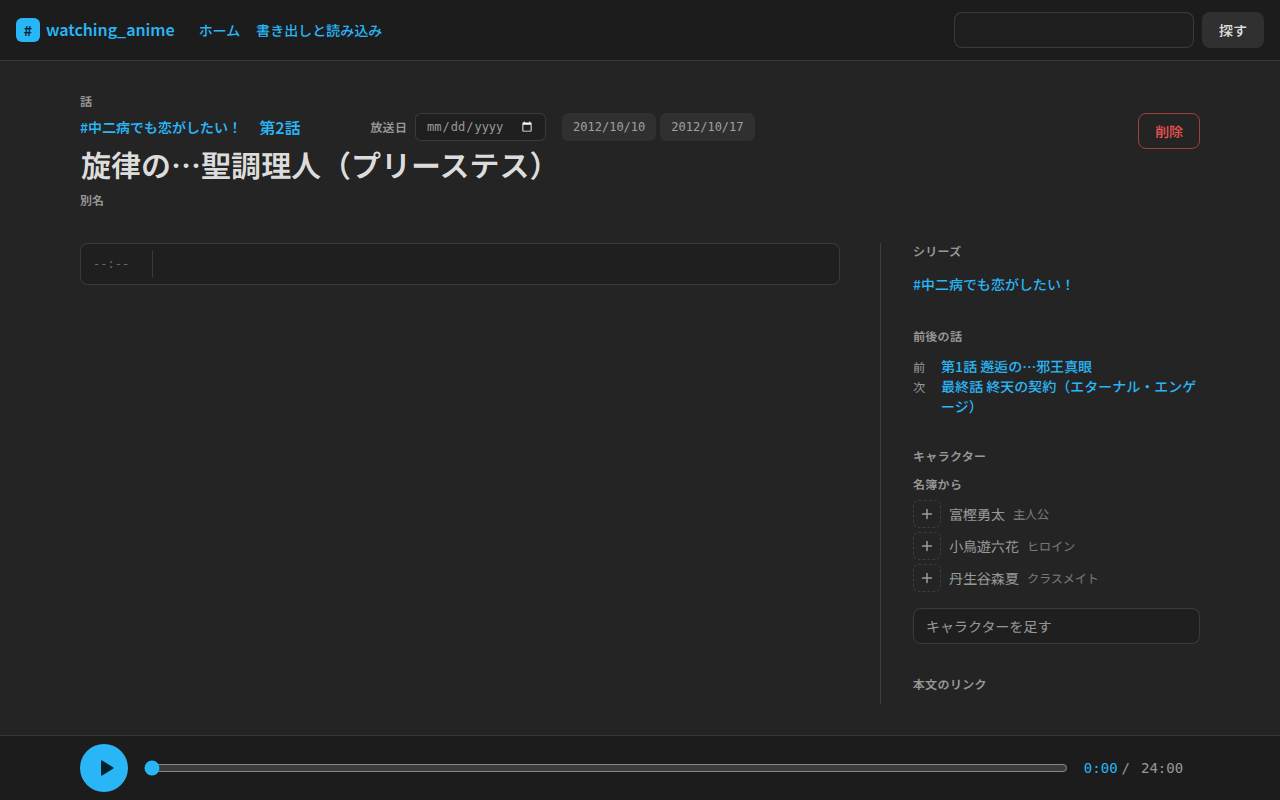
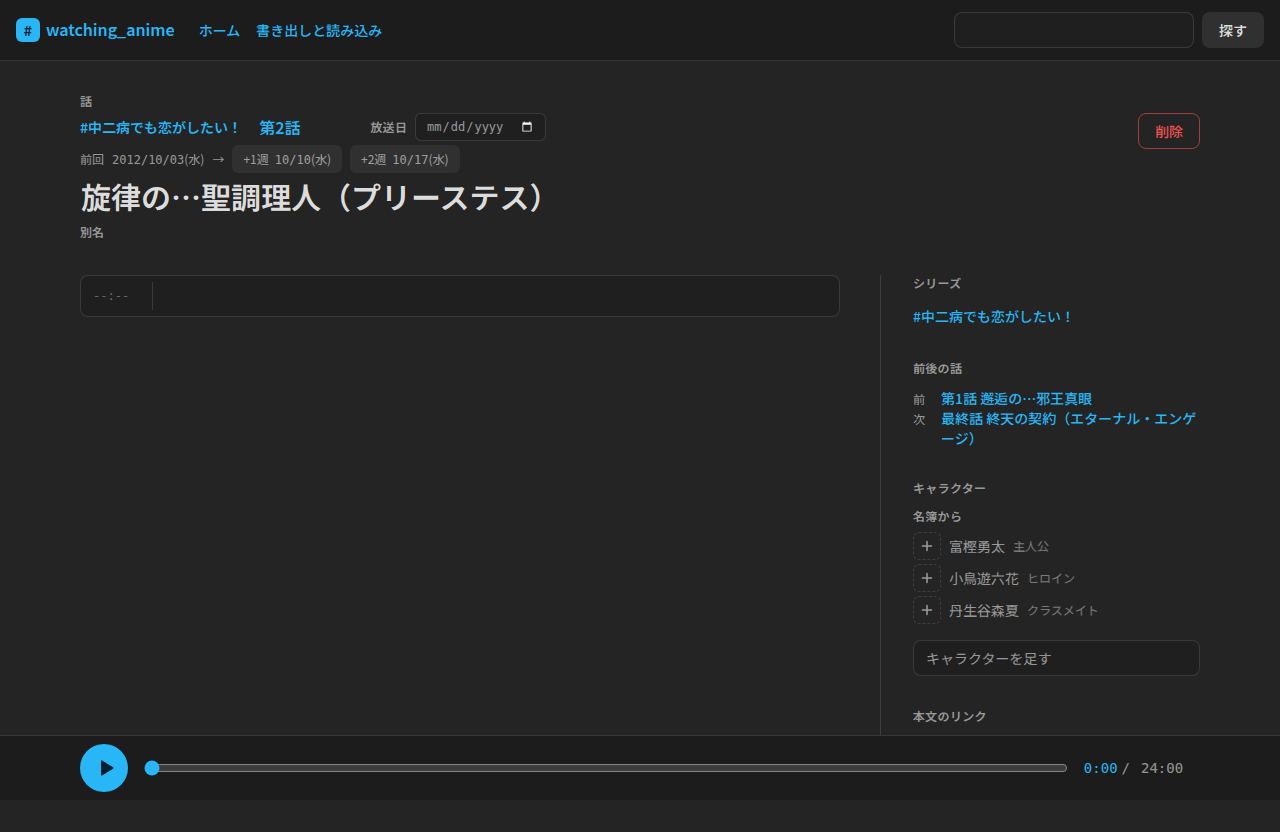
放送日の候補に前回の日付を出し、ボタンを +1週・+2週と月日にする

diff --git a/src/app/pages/EpisodePage.tsx b/src/app/pages/EpisodePage.tsx
@@ -27,7 +27,7 @@ import {
 import { PageSuggest } from "../components/PageSuggest.tsx";
 import { PlaybackBar } from "../components/PlaybackBar.tsx";
 import { TitleFields } from "../components/TitleFields.tsx";
-import { pageName, paths, seriesName } from "../paths.ts";
+import { dateLabel, pageName, paths, seriesName, weekdayOf } from "../paths.ts";
 import { currentTime } from "../playback.ts";
 import { useDatabase, useStore } from "../store.ts";
 
@@ -87,21 +87,14 @@ function EpisodeView({
                     className="field field-sm font-mono text-muted"
                   />
                 </label>
-                {episode.airedOn === null && !panel.collapsed ? (
-                  <span className="flex flex-wrap gap-1">
-                    {airedOnCandidates(panel.previous, panel.next).map((date) => (
-                      <button
-                        key={date}
-                        type="button"
-                        onClick={() => update({ airedOn: date })}
-                        className="btn btn-sm font-mono font-normal text-muted"
-                      >
-                        {date.replaceAll("-", "/")}
-                      </button>
-                    ))}
-                  </span>
-                ) : null}
               </div>
+              {episode.airedOn === null && !panel.collapsed ? (
+                <AiredOnSuggest
+                  previous={panel.previous}
+                  next={panel.next}
+                  onPick={(airedOn) => update({ airedOn })}
+                />
+              ) : null}
               <TitleFields
                 page={episode}
                 onTitle={(title) => update({ title })}
@@ -149,6 +142,56 @@ function EpisodeView({
         </>
       }
     />
+  );
+}
+
+/**
+ * 放送日が空のとき、前後の話の放送日から1週と2週ずらした日を出す。
+ * 前回がいつか分かるよう、元の日付を1度だけ出し、ボタンはずらした週と月日だけにする
+ */
+function AiredOnSuggest({
+  previous,
+  next,
+  onPick,
+}: {
+  previous: Episode | null;
+  next: Episode | null;
+  onPick: (airedOn: string) => void;
+}) {
+  const groups = airedOnCandidates(previous, next);
+  if (groups.length === 0) return null;
+  return (
+    <div className="mb-1 space-y-1">
+      {groups.map((group) => (
+        <p key={group.from} className="flex flex-wrap items-center gap-x-2 gap-y-1 text-xs text-muted">
+          <span>{group.from === "previous" ? "前回" : "次回"}</span>
+          <DateText date={group.base} withYear />
+          <span aria-hidden>→</span>
+          {group.dates.map(({ weeks, date }) => (
+            <button
+              key={date}
+              type="button"
+              title={dateLabel(date)}
+              onClick={() => onPick(date)}
+              className="btn btn-sm font-normal text-muted"
+            >
+              {weeks > 0 ? `+${weeks}週` : `−${-weeks}週`}
+              <DateText date={date} />
+            </button>
+          ))}
+        </p>
+      ))}
+    </div>
+  );
+}
+
+/** 日付は等幅で、曜日は本文の字で出す。等幅の字には日本語が無いことがある */
+function DateText({ date, withYear = false }: { date: string; withYear?: boolean }) {
+  return (
+    <span>
+      <span className="font-mono">{(withYear ? date : date.slice(5)).replaceAll("-", "/")}</span>(
+      {weekdayOf(date)})
+    </span>
   );
 }
 

diff --git a/src/model/views.ts b/src/model/views.ts
@@ -205,20 +205,40 @@ function must<T>(value: T | undefined, label: string): T {
   return value;
 }
 
+export interface AiredOnCandidates {
+  /** 前の話から数えるか、次の話から数えるか */
+  from: "previous" | "next";
+  /** 数える元の話の放送日 */
+  base: string;
+  /** weeks は元の日からずらした週。次の話から数えるときは負 */
+  dates: { weeks: number; date: string }[];
+}
+
 /**
  * 放送日の候補。前の話の1週後と2週後、次の話の1週前と2週前。
- * 一週休みのときのために2週も出す。前後の話に日付が無ければ出さない。古い順
+ * 一週休みのときのために2週も出す。前後の話に日付が無ければ、その組は出さない
  */
 export function airedOnCandidates(
   previous: Episode | null,
   next: Episode | null,
-): string[] {
-  const found = new Set<string>();
-  for (const [episode, sign] of [[previous, 1], [next, -1]] as const) {
+): AiredOnCandidates[] {
+  const groups: AiredOnCandidates[] = [];
+  for (const [episode, from, sign] of [
+    [previous, "previous", 1],
+    [next, "next", -1],
+  ] as const) {
     if (!episode?.airedOn) continue;
-    for (const weeks of [1, 2]) found.add(shiftDays(episode.airedOn, sign * weeks * 7));
+    const base = episode.airedOn;
+    groups.push({
+      from,
+      base,
+      dates: [1, 2].map((weeks) => ({
+        weeks: sign * weeks,
+        date: shiftDays(base, sign * weeks * 7),
+      })),
+    });
   }
-  return [...found].sort();
+  return groups;
 }
 
 /** YYYY-MM-DD を日数だけずらす。時差に左右されないよう UTC で数える */

diff --git a/src/model/views.test.ts b/src/model/views.test.ts
@@ -161,16 +161,32 @@ describe("create してから紐づける", () => {
 describe("airedOnCandidates", () => {
   const at = (airedOn: string | null) => ({ ...episodeByTitle(firstTitle), airedOn });
 
-  it("前の話の1週後と2週後、次の話の1週前と2週前を古い順に出す", () => {
+  it("前の話の1週後と2週後、次の話の1週前と2週前を、元の日付と組にして出す", () => {
     expect(airedOnCandidates(at("2012-10-03"), at("2012-10-31"))).toEqual([
-      "2012-10-10",
-      "2012-10-17",
-      "2012-10-24",
+      {
+        from: "previous",
+        base: "2012-10-03",
+        dates: [
+          { weeks: 1, date: "2012-10-10" },
+          { weeks: 2, date: "2012-10-17" },
+        ],
+      },
+      {
+        from: "next",
+        base: "2012-10-31",
+        dates: [
+          { weeks: -1, date: "2012-10-24" },
+          { weeks: -2, date: "2012-10-17" },
+        ],
+      },
     ]);
   });
 
   it("月と年をまたいで数える", () => {
-    expect(airedOnCandidates(at("2012-12-26"), null)).toEqual(["2013-01-02", "2013-01-09"]);
+    expect(airedOnCandidates(at("2012-12-26"), null)[0].dates.map((item) => item.date)).toEqual([
+      "2013-01-02",
+      "2013-01-09",
+    ]);
   });
 
   it("前後の話に日付が無ければ出さない", () => {

diff --git a/src/app/paths.ts b/src/app/paths.ts
@@ -46,3 +46,15 @@ export function pageName(page: Page): string {
     ? `${page.label} ${page.title}`
     : page.title;
 }
+
+const WEEKDAYS = ["日", "月", "火", "水", "木", "金", "土"];
+
+/** YYYY-MM-DD の曜日。「水」 */
+export function weekdayOf(date: string): string {
+  return WEEKDAYS[new Date(`${date}T00:00:00Z`).getUTCDay()];
+}
+
+/** YYYY-MM-DD を「2012/10/03(水)」に */
+export function dateLabel(date: string): string {
+  return `${date.replaceAll("-", "/")}(${weekdayOf(date)})`;
+}

diff --git a/開発ノート.md b/開発ノート.md
@@ -55,6 +55,8 @@ Sparkling Journey（https://github.com/Marco3jp/sparkling-journey）は作品と
 
 放送日が空のときは、日付の欄の横に候補のボタンを出す（2026-10-04、Issue #22）。前の話の1週後と2週後、次の話の1週前と2週前。2週は一週休みのため。前後の話に日付が無ければ出さない。日付の欄に手で入れるのは今までどおりで、特殊な編成もそこで入れる。`views.ts` の `airedOnCandidates`。
 
+候補は、日付の欄の下に「前回 2012/10/03(水) → [+1週 10/10(水)] [+2週 10/17(水)]」の1行で出す。次の話からは「次回 … → [−1週 …] [−2週 …]」。前回がいつか分からないと候補を選べないので、元の日付を1度だけ出し、ボタンはずらした週と月日（年は省く）だけにした。「前回の翌週：YYYY-MM-DD」のようにボタンごとに書くと長く、ヘッダーの行が折り返すため。ボタンの title には年月日を出す。曜日は等幅の字に日本語が無い環境で豆腐になったので、日付だけ等幅にし、曜日は本文の字で出す。
+
 ヘッダーの検索欄と、ホームの作る欄（シリーズとキャラクター）は、打った文字で当たるページを出す（2026-10-04、Issue #25）。選ぶとそのページを開く。何も選ばずに Enter なら、今までどおり探す、作る。`JumpSuggest.tsx`。候補は ↓ で選ぶまで選ばれていない（`handleSuggestKey` の active が -1）。本文やサイドパネルのサジェストは、今までどおり先頭が選ばれている。キャラクターの作る欄は Issue に無かったが、同じ形なので揃えた。
 
 劇場版・単発をホームで作ると、「本編」の話を同じ題名で1本作り、その話を開く。見本の劇場版と同じ形。
@@ -213,6 +215,7 @@ Pages 自体はまだ無い。このワークフローが `main` で成功した
 ## 作業ログ
 
 - 2026-10-04: Issue #9、#12、#16、#20、#21、#22、#25 をまとめて入れた。#9（再生位置の時計）と #20（コピー）はサブエージェントが別の worktree で作り、取り込んだ。#16 は、話の面のヘッダーの話数の左にシリーズ名を出す意味だと教わった。#20 の Slack は、取り込むときに実体参照をやめた。`search-suggest.png` を足し、スクショを撮り直した。
+- 2026-10-04: 放送日の候補を、前回（次回）の日付を1度出して、ボタンは「+1週 10/10(水)」にする形に変えた。前は年月日だけのボタンで、前回がいつか分からなかった。スクショを撮り直した。
 - 2026-10-04: コピーのボタンを本文の下からヘッダーの削除の隣へ移した。シリーズの面は、本文を出さない single のときは出さない。コピーは、どの形も `- ` の箇条書きにし、話の中の時刻を `[11:10]` と囲むようにした（前は Markdown などがインラインコード、Slack が `•`、テキストは記号なし）。スクショを撮り直した。
 
 - 2026-10-01: 書いた時刻に秒も出すようにした。2段目の時分秒は8文字で、1段目の年月日の10文字より短く、幅が変わらないため。スクショを撮り直した。
